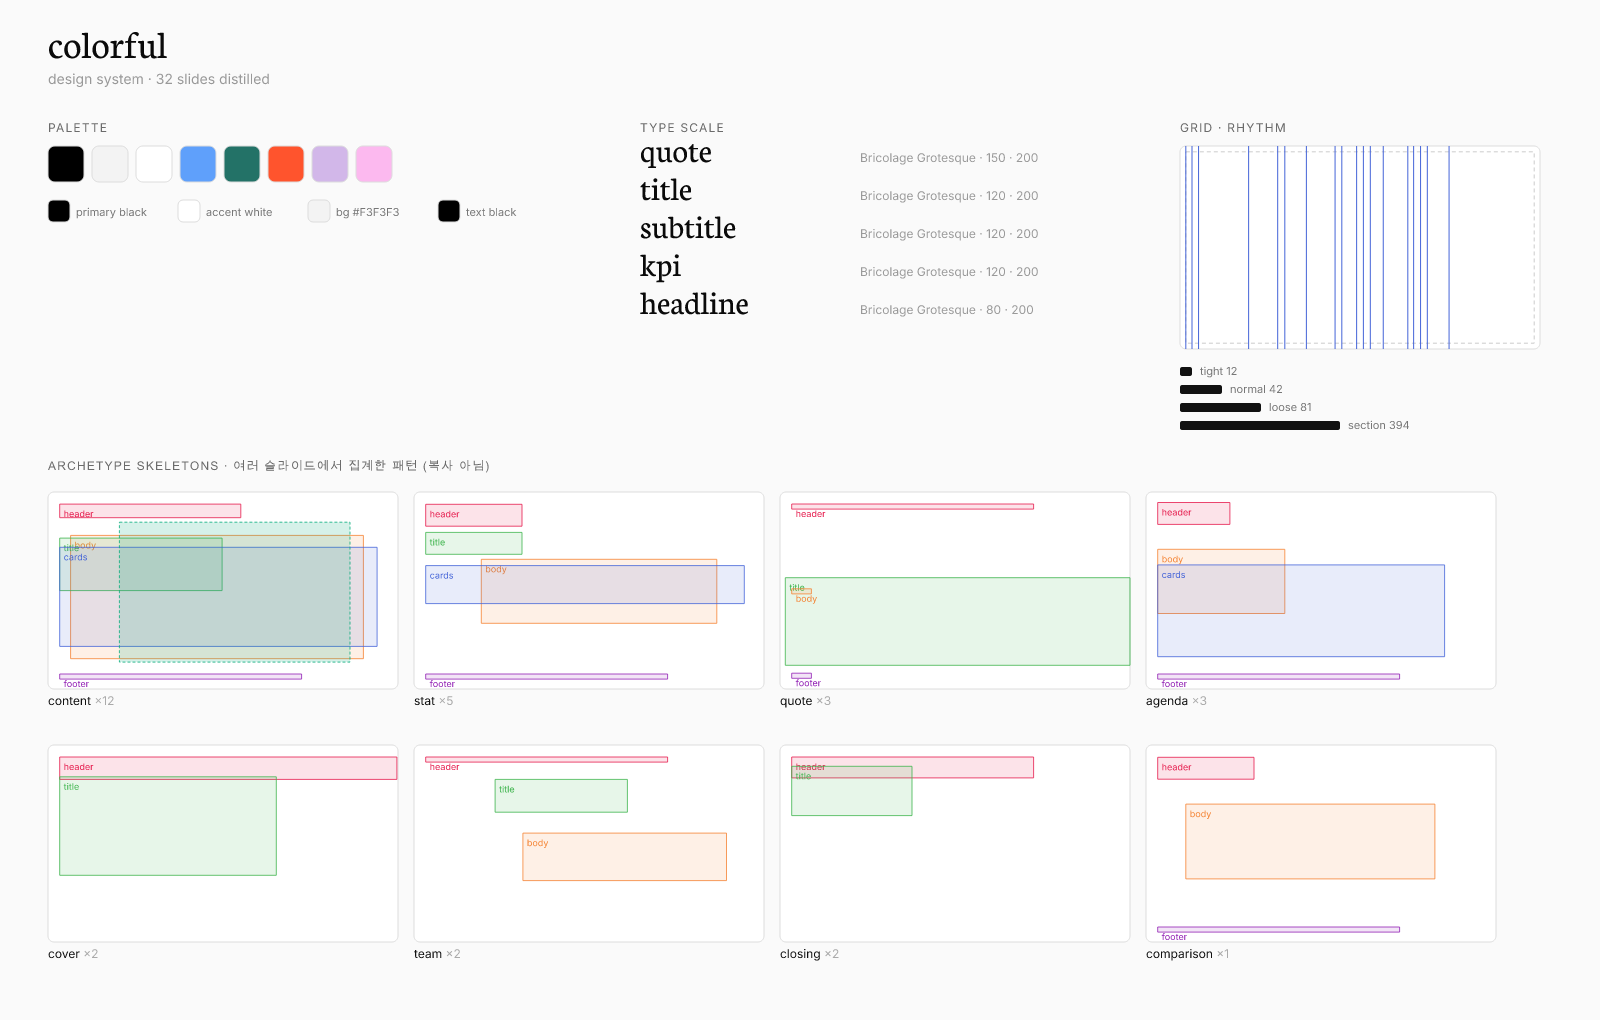
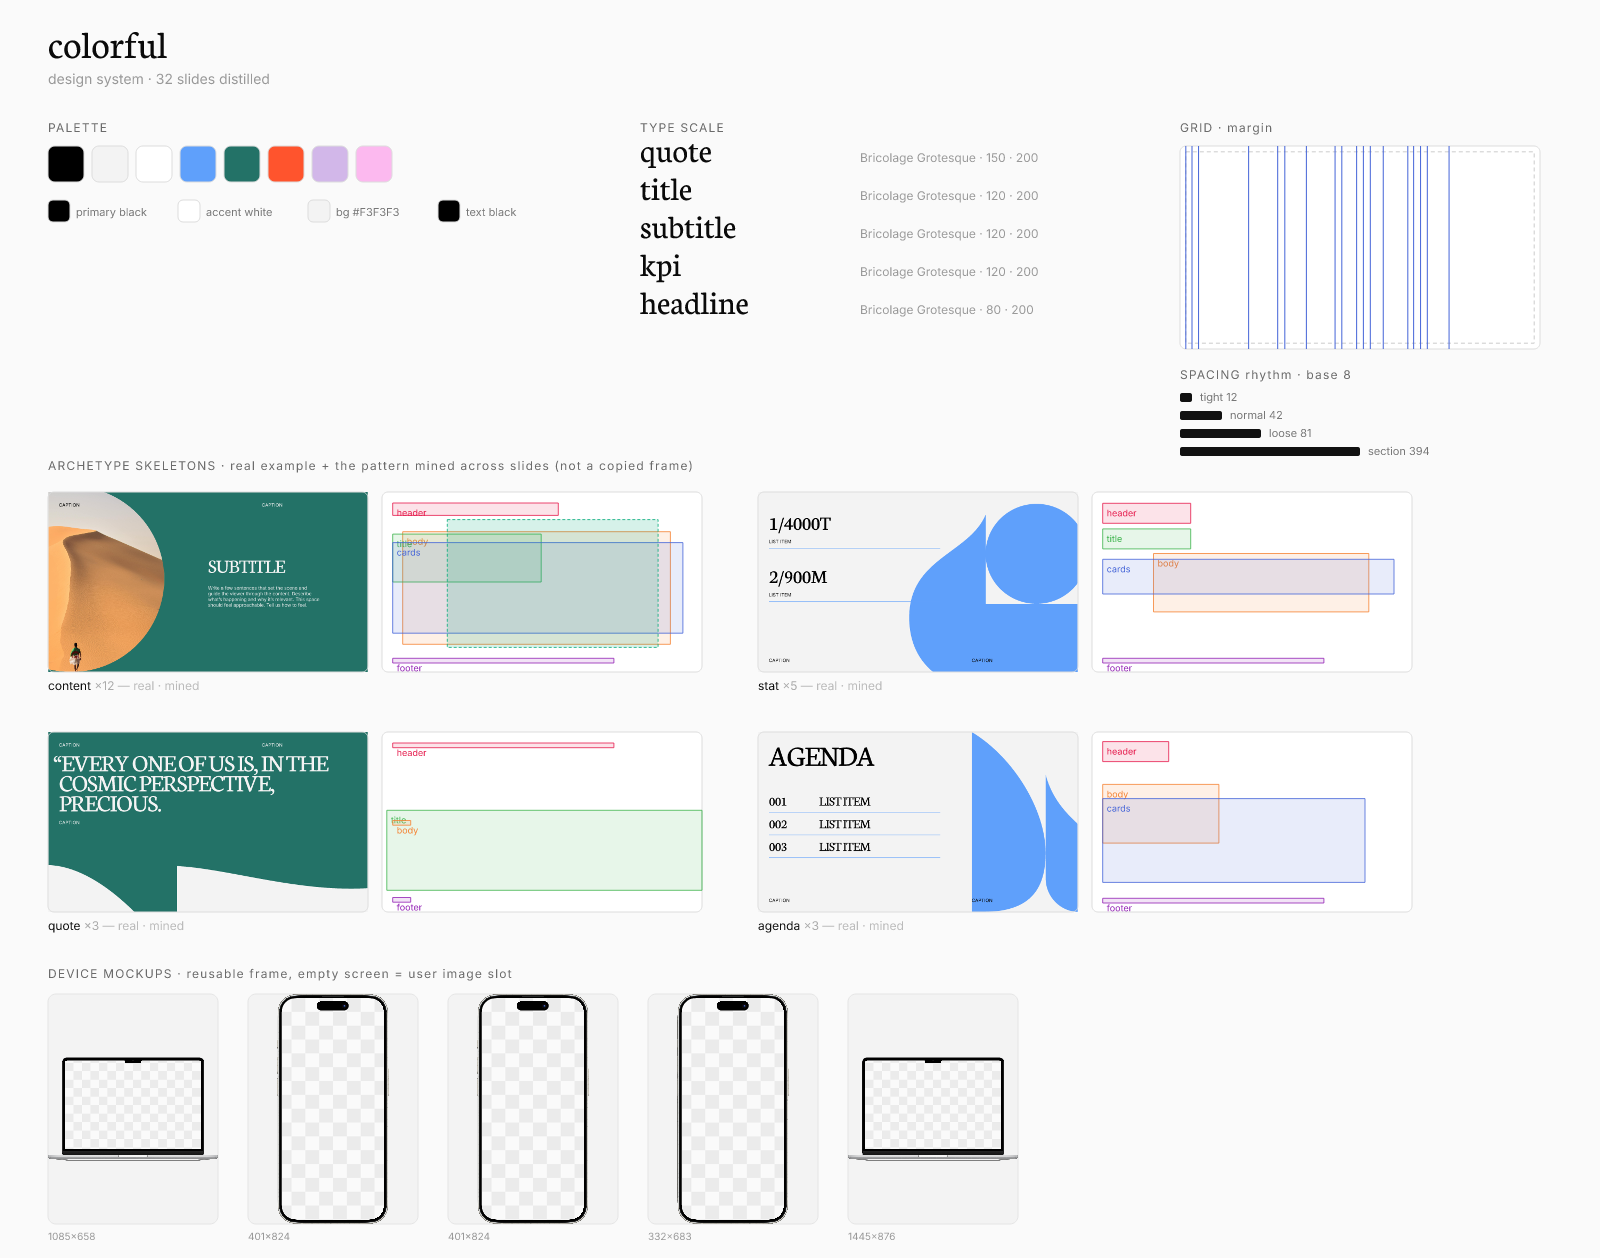
docs(portfolio): restore concept Design systems, add colorful board section, Results after it
Reverts the Design systems section to the conceptual inline diagram, adds a
separate "Colorful — distilled design system" board (type scale, grid/margin,
spacing rhythm, archetype skeletons paired with real examples, device mockups),
and reorders so Results follows the design-system sections.

diff --git a/docs/portfolio.html b/docs/portfolio.html
@@ -181,6 +181,66 @@ layout novelty &lt; 6 → reject</span></p></div>
     </div>
   </section>
 
+  <!-- DESIGN SYSTEM INSPECTOR -->
+  <section>
+    <h2>Design systems · 템플릿 → 정립된 시스템</h2>
+    <p class="lead" style="margin-bottom:24px">테마마다 슬라이드들을 하나의 재사용 디자인 시스템으로 정리한다. 복사한 슬라이드가 아니라 거기서 뽑아낸 규칙이다. 인스펙터는 팔레트, 타입 스케일, 그리드와 리듬, 계층, blocks, 아키타입 골격, 장식, 목업을 한 페이지에 모아 보여준다.</p>
+    <svg class="diagram" viewBox="0 0 1040 470" xmlns="http://www.w3.org/2000/svg" font-family="Inter">
+      <text x="20" y="30" font-size="12" font-weight="700" fill="#6b6b6b" letter-spacing="1.2">PALETTE</text>
+      <g>
+        <rect x="20" y="42" width="30" height="30" rx="6" fill="#000000" stroke="#ddd"/>
+        <rect x="58" y="42" width="30" height="30" rx="6" fill="#F3F3F3" stroke="#ddd"/>
+        <rect x="96" y="42" width="30" height="30" rx="6" fill="#FFFFFF" stroke="#ddd"/>
+        <rect x="134" y="42" width="30" height="30" rx="6" fill="#5FA0FB" stroke="#ddd"/>
+        <rect x="172" y="42" width="30" height="30" rx="6" fill="#237267" stroke="#ddd"/>
+        <rect x="210" y="42" width="30" height="30" rx="6" fill="#FF542D" stroke="#ddd"/>
+        <rect x="248" y="42" width="30" height="30" rx="6" fill="#D2B7E9" stroke="#ddd"/>
+        <rect x="286" y="42" width="30" height="30" rx="6" fill="#FCB9EF" stroke="#ddd"/>
+      </g>
+      <text x="400" y="30" font-size="12" font-weight="700" fill="#6b6b6b" letter-spacing="1.2">TYPE SCALE</text>
+      <text x="400" y="58" font-size="30" font-weight="200" fill="#0a0a0a">title</text>
+      <text x="540" y="58" font-size="11" fill="#9a9a9a">Bricolage · 120 · 200</text>
+      <text x="690" y="58" font-size="22" font-weight="200" fill="#0a0a0a">headline</text>
+      <text x="820" y="58" font-size="11" fill="#9a9a9a">80 · 200</text>
+      <text x="400" y="86" font-size="15" font-weight="600" fill="#0a0a0a">body</text>
+      <text x="540" y="86" font-size="11" fill="#9a9a9a">Inter · 28 · 400</text>
+      <text x="690" y="86" font-size="13" font-weight="600" fill="#0a0a0a">caption</text>
+      <text x="820" y="86" font-size="11" fill="#9a9a9a">Inter · 28 · 600</text>
+      <line x1="20" y1="108" x2="1020" y2="108" stroke="#ebebeb"/>
+      <text x="20" y="138" font-size="12" font-weight="700" fill="#6b6b6b" letter-spacing="1.2">ARCHETYPE SKELETONS · 집계 패턴 (복사 아님)</text>
+      <g font-size="10" fill="#4363d8">
+        <rect x="20" y="152" width="300" height="169" rx="8" fill="#fff" stroke="#ddd"/>
+        <rect x="36" y="184" width="120" height="14" fill="#4363d8" fill-opacity="0.12" stroke="#4363d8" stroke-width="0.7"/><text x="40" y="194">eyebrow</text>
+        <rect x="36" y="206" width="210" height="56" fill="#3cb44b" fill-opacity="0.12" stroke="#3cb44b" stroke-width="0.7"/><text x="40" y="220" fill="#3cb44b">title</text>
+        <text x="20" y="338" font-size="11" font-weight="700" fill="#0a0a0a">cover</text>
+        <rect x="370" y="152" width="300" height="169" rx="8" fill="#fff" stroke="#ddd"/>
+        <rect x="386" y="166" width="80" height="12" fill="#e6194b" fill-opacity="0.12" stroke="#e6194b" stroke-width="0.7"/><text x="390" y="175" fill="#e6194b">header</text>
+        <rect x="386" y="184" width="150" height="22" fill="#3cb44b" fill-opacity="0.12" stroke="#3cb44b" stroke-width="0.7"/><text x="390" y="198" fill="#3cb44b">title</text>
+        <rect x="386" y="218" width="82" height="86" fill="#4363d8" fill-opacity="0.12" stroke="#4363d8" stroke-width="0.7"/>
+        <rect x="476" y="218" width="82" height="86" fill="#4363d8" fill-opacity="0.12" stroke="#4363d8" stroke-width="0.7"/>
+        <rect x="566" y="218" width="82" height="86" fill="#4363d8" fill-opacity="0.12" stroke="#4363d8" stroke-width="0.7"/><text x="390" y="232">cards ×3</text>
+        <text x="370" y="338" font-size="11" font-weight="700" fill="#0a0a0a">content</text>
+        <rect x="720" y="152" width="300" height="169" rx="8" fill="#fff" stroke="#ddd"/>
+        <rect x="736" y="190" width="110" height="56" fill="#3cb44b" fill-opacity="0.12" stroke="#3cb44b" stroke-width="0.7"/><text x="740" y="204" fill="#3cb44b">title</text>
+        <rect x="866" y="172" width="138" height="130" fill="#0a7" fill-opacity="0.16" stroke="#0a7" stroke-width="0.7" stroke-dasharray="3 2"/><text x="900" y="295" fill="#0a7">mockup</text>
+        <text x="720" y="338" font-size="11" font-weight="700" fill="#0a0a0a">split + device mockup</text>
+      </g>
+      <text x="20" y="372" font-size="12" fill="#6b6b6b">11 device mockups · 26 decoration assets · 30 type roles · 3 themes — all extracted, not authored</text>
+    </svg>
+    <p class="lead" style="margin-top:16px">인스펙터(<span class="mono" style="display:inline;padding:2px 6px">scripts/design-system.mjs</span>)는 GrammarSpec를 디자이너 문서처럼 그리고, 각 골격을 실제 예시 슬라이드와 나란히 놓는다. 추상 패턴과 실물을 같이 봐야 이해가 된다.</p>
+  </section>
+
+  <!-- COLORFUL DESIGN SYSTEM BOARD -->
+  <section>
+    <h2>Colorful — distilled design system · 실제 추출 결과</h2>
+    <p class="lead" style="margin-bottom:20px">위 개념을 colorful 테마에 실제로 적용한 결과다. 타입 스케일, 그리드·margin, spacing 리듬, 아키타입 골격(실제 예시 슬라이드와 mined 패턴을 나란히), 디바이스 목업까지 한 장으로 정리했다. 모든 값은 템플릿에서 추출했다.</p>
+    <figure>
+      <img class="shot" style="aspect-ratio:auto" src="assets/ds-colorful.png" alt="colorful design system board" />
+      <figcaption>colorful GrammarSpec 보드 — <span class="mono" style="display:inline;padding:1px 5px">scripts/ds-board.mjs colorful</span>로 생성. black·green도 같은 스크립트로 만들 수 있다.</figcaption>
+    </figure>
+  </section>
+  </section>
+
   <!-- RESULTS -->
   <section>
     <h2>Results · 합성 결과 (no frame copied · grammar-synthesized)</h2>
@@ -193,16 +253,6 @@ layout novelty &lt; 6 → reject</span></p></div>
       <figure><img class="shot" src="assets/ex-stat.png" alt="black stat"><figcaption><span class="tag">black · stat</span> 미니멀 KPI 3열(62% / 4x / +18)</figcaption></figure>
       <figure><img class="shot" src="assets/ex-laptop.png" alt="black laptop mockup"><figcaption><span class="tag">black · mockup</span> MacBook 프레임 + 빈 화면(사용자가 채움)</figcaption></figure>
     </div>
-  </section>
-
-  <!-- DESIGN SYSTEM INSPECTOR -->
-  <section>
-    <h2>Design systems · 템플릿 → 정립된 시스템</h2>
-    <p class="lead" style="margin-bottom:24px">테마마다 슬라이드들을 하나의 재사용 디자인 시스템으로 정리한다. 복사한 슬라이드가 아니라 거기서 뽑아낸 규칙이다. 인스펙터는 팔레트, 타입 스케일, 그리드와 리듬, 계층, blocks, 아키타입 골격, 장식, 목업을 한 페이지에 모아 보여준다.</p>
-    <figure>
-      <img class="shot" style="aspect-ratio:auto" src="assets/ds-colorful.png" alt="colorful design system board" />
-      <figcaption>colorful 테마를 하나의 시스템으로 정리한 모습 — 팔레트, 실제 폰트로 렌더한 타입 스케일, 그리드·리듬, 그리고 여러 슬라이드에서 집계한 아키타입 골격 8종. black·green도 같은 인스펙터(<span class="mono" style="display:inline;padding:1px 5px">scripts/design-system.mjs</span>)로 동일하게 생성된다.</figcaption>
-    </figure>
   </section>
 
   <!-- MOCKUPS -->